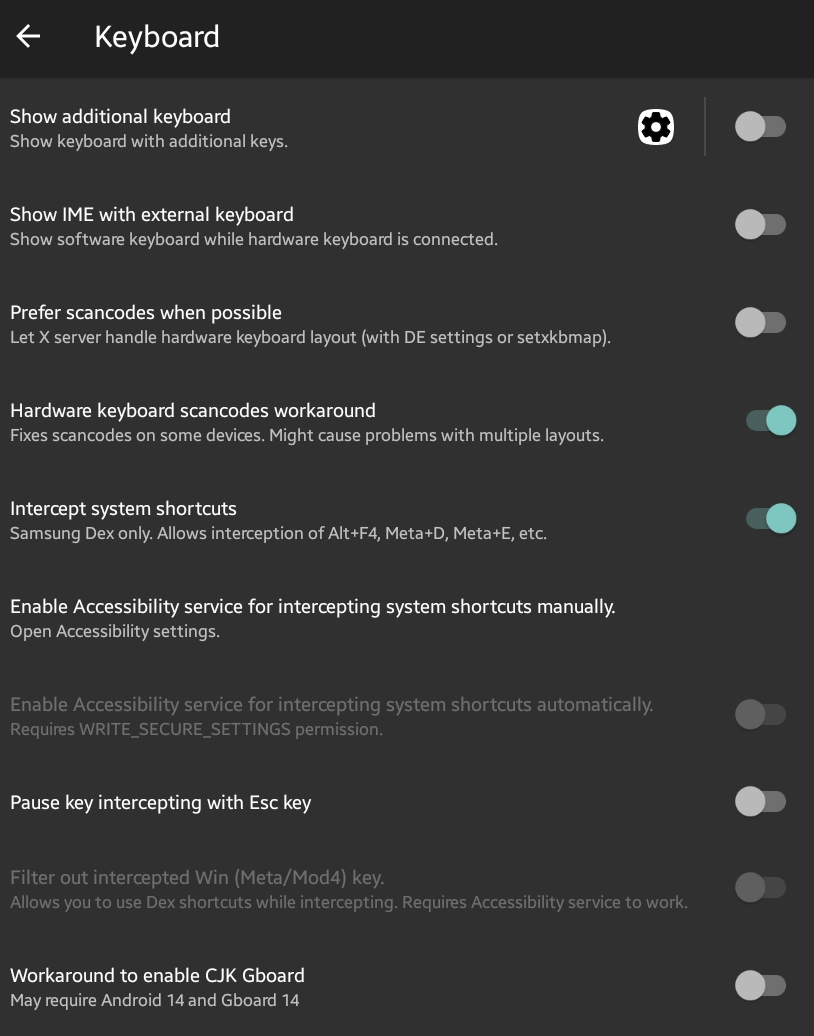
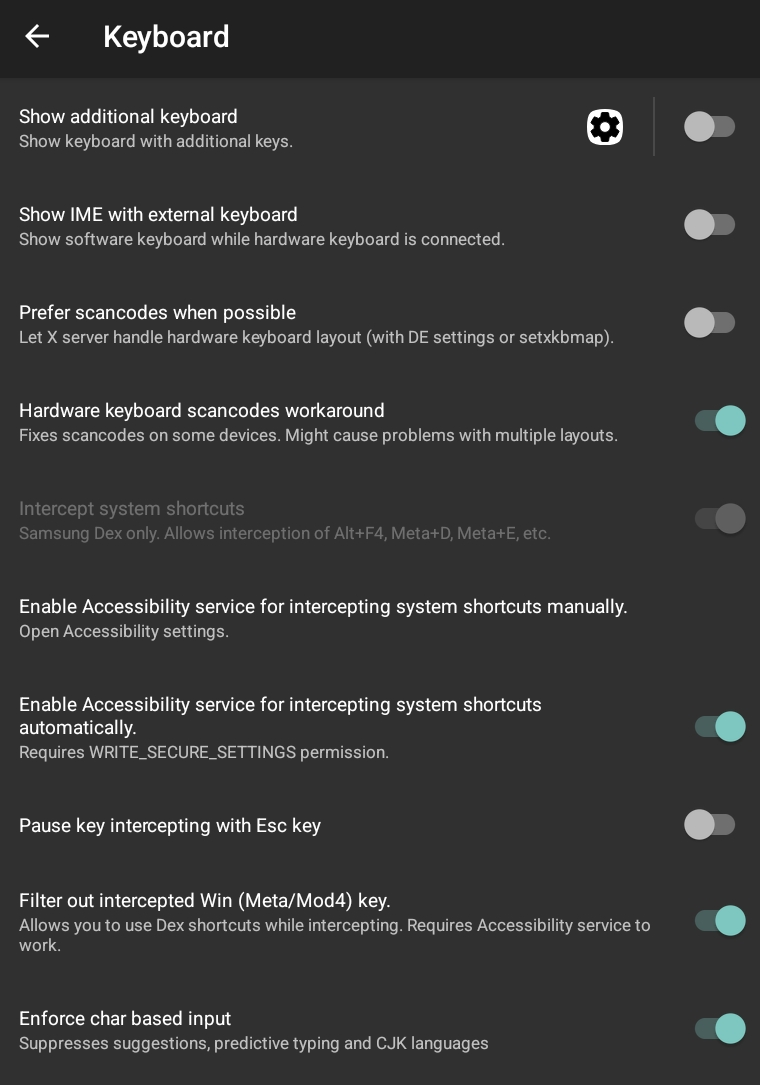
.

diff --git a/content/🛠 Setting/📱 Android.md b/content/🛠 Setting/📱 Android.md
@@ -81,7 +81,6 @@ $('#linkshare').prop('selectedIndex',0);};
 -  File Sync <a href="https://github.com/Catfriend1/syncthing-android/releases" target="_blank" >Syncthing (Fork)</a>
 -  Note-taking <a href="https://github.com/obsidianmd/obsidian-releases/releases" target="_blank" >Obsidian</a>
     - See <button id=”Link” onclick="window.open('/%F0%9F%9B%A0%EF%B8%8F-Setting/%F0%9F%92%A0-Obsidian', '_blank')" >💠&nbsp;Obsidian</button>
-- Simulated Cursor <a href="https://github.com/jojczak/PenMouseS/releases" target="_blank" >PenMouseS</a>
 - Notion Alternatives <a href="https://github.com/anyproto/anytype-kotlin/releases" target="_blank" >Anytype</a>
 -  Password Manager <a href="https://github.com/bitwarden/android/releases" target="_blank" >Bitwarden</a>
 - White <a href="https://github.com/trynoice/android-app/releases" target="_blank" >Noice</a>
@@ -93,7 +92,6 @@ $('#linkshare').prop('selectedIndex',0);};
 - Fake <a href="https://f-droid.org/packages/cl.coders.faketraveler/" target="_blank" >Traveler</a>
 - Mesh Network for SMB or Share <a href="https://tailscale.com/download/android" target="_blank" >Tailscale</a>
 - Revanced <a href="https://github.com/ReVanced/revanced-manager/releases/" target="_blank" >Manager</a>  
-- Libre <a href="https://github.com/proninyaroslav/libretorrent/releases" target="_blank" >Torrent</a>
 - VNC Client <a href="https://github.com/gujjwal00/avnc/releases" target="_blank" >AVNC</a>
 - FOSS <a href="https://github.com/f-droid/fdroidclient/releases" target="_blank" >F-Droid</a>
 - Get Updates from Website <a href="https://github.com/ImranR98/Obtainium/releases" target="_blank" >Obtainium</a>
@@ -102,8 +100,6 @@ $('#linkshare').prop('selectedIndex',0);};
 -  PDF Annotation <a href="https://play.google.com/store/apps/details?id=com.orion.notein.global" target="_blank" >Notein</a>
 -  PDF Viewer <a href="https://play.google.com/store/apps/details?id=com.xodo.pdf.reader" target="_blank" >Xodo</a>
 - odt Viewer <a href="https://play.google.com/store/apps/details?id=com.collabora.libreoffice" target="_blank" >Collabora Office</a>
--  EQ <a href="https://play.google.com/store/apps/details?id=com.pittvandewitt.wavelet" target="_blank" >Wavelet</a>
-   -  <a href="https://www.autoeq.app/" target="_blank" >autoeq</a>
 -  Stock <a href="https://play.google.com/store/apps/details?id=app.stockevents.android" target="_blank" >Widget</a>
 -  iOS <a href="https://play.google.com/store/apps/details?id=com.inova.ios_14_iconpack" target="_blank" >Icon Pack</a>
 -  File <a href="https://play.google.com/store/apps/details?id=com.alphainventor.filemanager" target="_blank" >Manager</a>
@@ -165,6 +161,7 @@ $('#linkshare').prop('selectedIndex',0);};
         - `adb shell "/system/bin/device_config set_sync_disabled_for_tests persistent"`
         - `adb shell "/system/bin/device_config put activity_manager max_phantom_processes 2147483647"`
         - `adb shell settings put global settings_enable_monitor_phantom_procs false`
+        - `adb shell pm grant com.termux.x11 android.permission.WRITE_SECURE_SETTINGS`
     - Exit `LADB` and Disable `Wireless debugging`
      - You may need this…
         - `...` → `More` → `Restart` 
@@ -192,7 +189,8 @@ $('#linkshare').prop('selectedIndex',0);};
 ![[X11-3.png]]
 `Clipboard sharing` can cause problem on `LibreOffice`
 ![[X11-4.png]]
- - `Back` Key = `Keyboard`, `Ctrl + C` = `Cancel`, `exit` = exit
+![[X11-5.png]]
+- `Back` Key = `Keyboard`, `Ctrl + C` = `Cancel`, `exit` = exit
 - (Recommend) Fix Sound Error
     - Open `/data/data/com.termux/files/usr/etc/pulse/default.pa` and Modify `Last Line` as below
     ```shell
